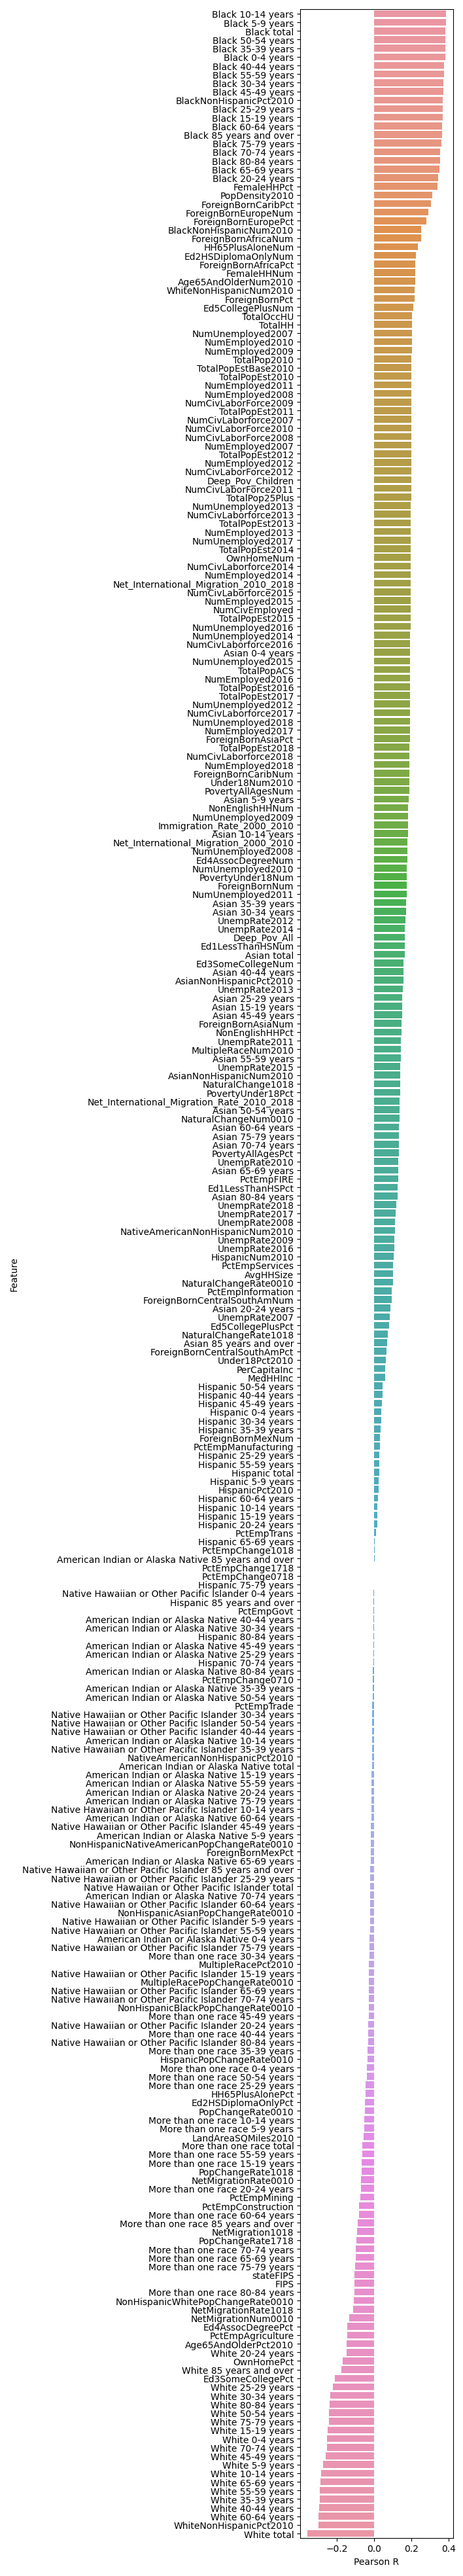
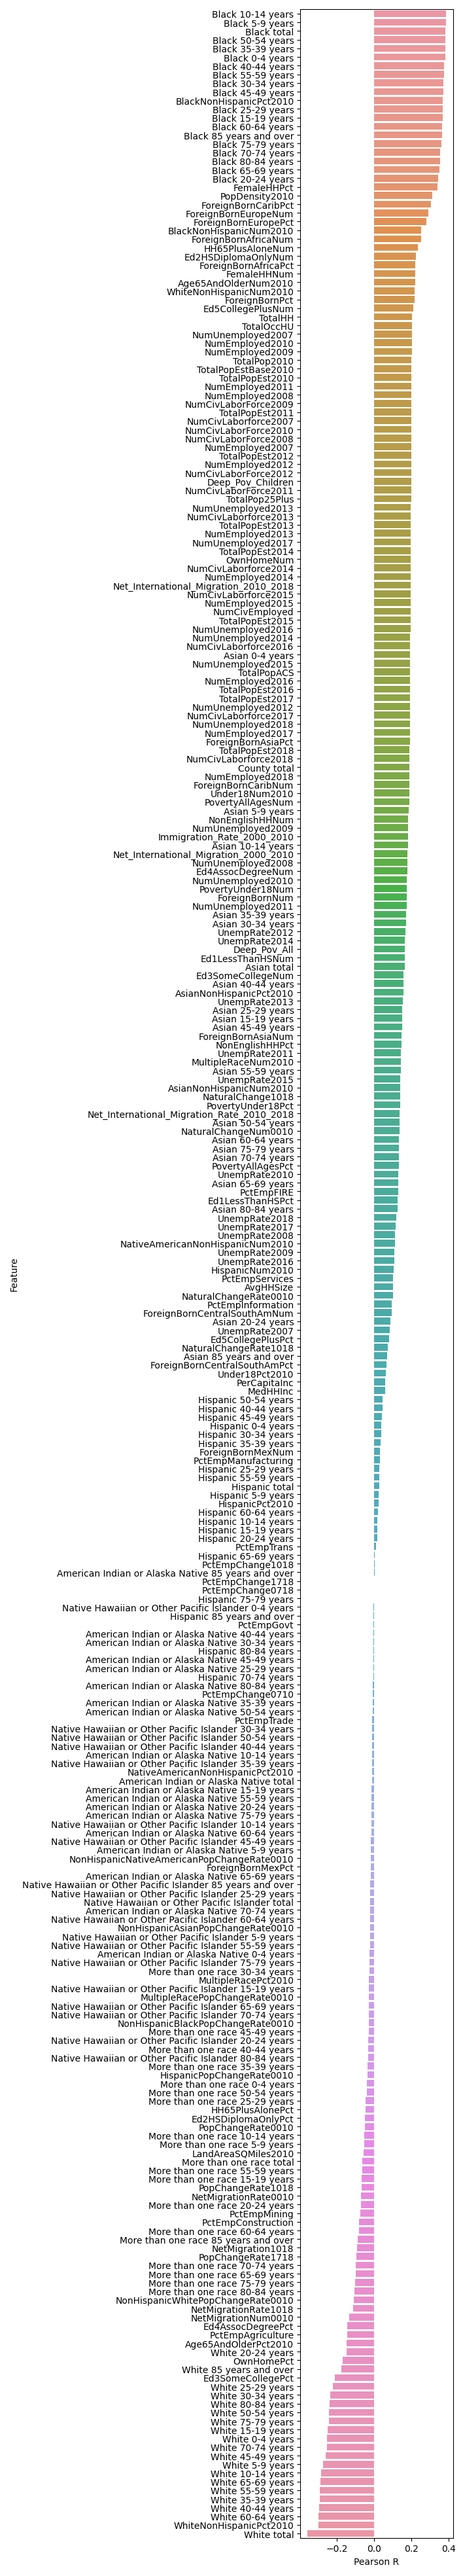
removed FIPS

Changed region(s): [[0.0932, 0.0312, 0.6525, 0.9688], [0.8079, 0.0625, 0.9322, 0.5938], [0.7458, 0.7188, 0.8079, 0.9375]]

diff --git a/simulations/death_factors/eda/county/analyze_death.py b/simulations/death_factors/eda/county/analyze_death.py
@@ -181,8 +181,8 @@ def corr_feature_with_death(complete_df, outdir):
     complete_df = complete_df.dropna()
     print('After NaN removal', len(complete_df))
     y = np.array(complete_df['Death rate per individual'])*100000
-    data = complete_df.drop(['Death rate per individual','Cumulative deaths'],axis=1)
-    X = np.array(data[data.columns[4:]])
+    data = complete_df.drop(['Death rate per individual','Cumulative deaths', 'FIPS', 'stateFIPS'],axis=1)
+    X = np.array(data[data.columns[3:]])
     corr = []
     pvals = []
     for i in range(X.shape[1]):
@@ -192,7 +192,7 @@ def corr_feature_with_death(complete_df, outdir):
 
     #Visualize
     corr_df = pd.DataFrame()
-    corr_df['Feature'] = data.columns[4:]
+    corr_df['Feature'] = data.columns[3:]
     corr_df['Pearson R'] = np.array(corr)
     corr_df=corr_df.sort_values(by='Pearson R',ascending=False)
 

diff --git a/simulations/death_factors/model/enet.py b/simulations/death_factors/model/enet.py
@@ -60,7 +60,7 @@ def fit_model(data,outdir):
     #data = data[data['Death rate per individual']>x]
     y1 = np.array(data['Death rate per individual'])*100000
     y2 = np.array(data['Cumulative deaths'])
-    data = data.drop(['Death rate per individual','Cumulative deaths'],axis=1)
+    data = data.drop(['Death rate per individual','Cumulative deaths','FIPS', 'stateFIPS'],axis=1)
     X = np.array(data[data.columns[4:]])
     #Fit 1
     regr1 = ElasticNet(random_state=0,alpha=1.0, l1_ratio=0.5, fit_intercept=True,
